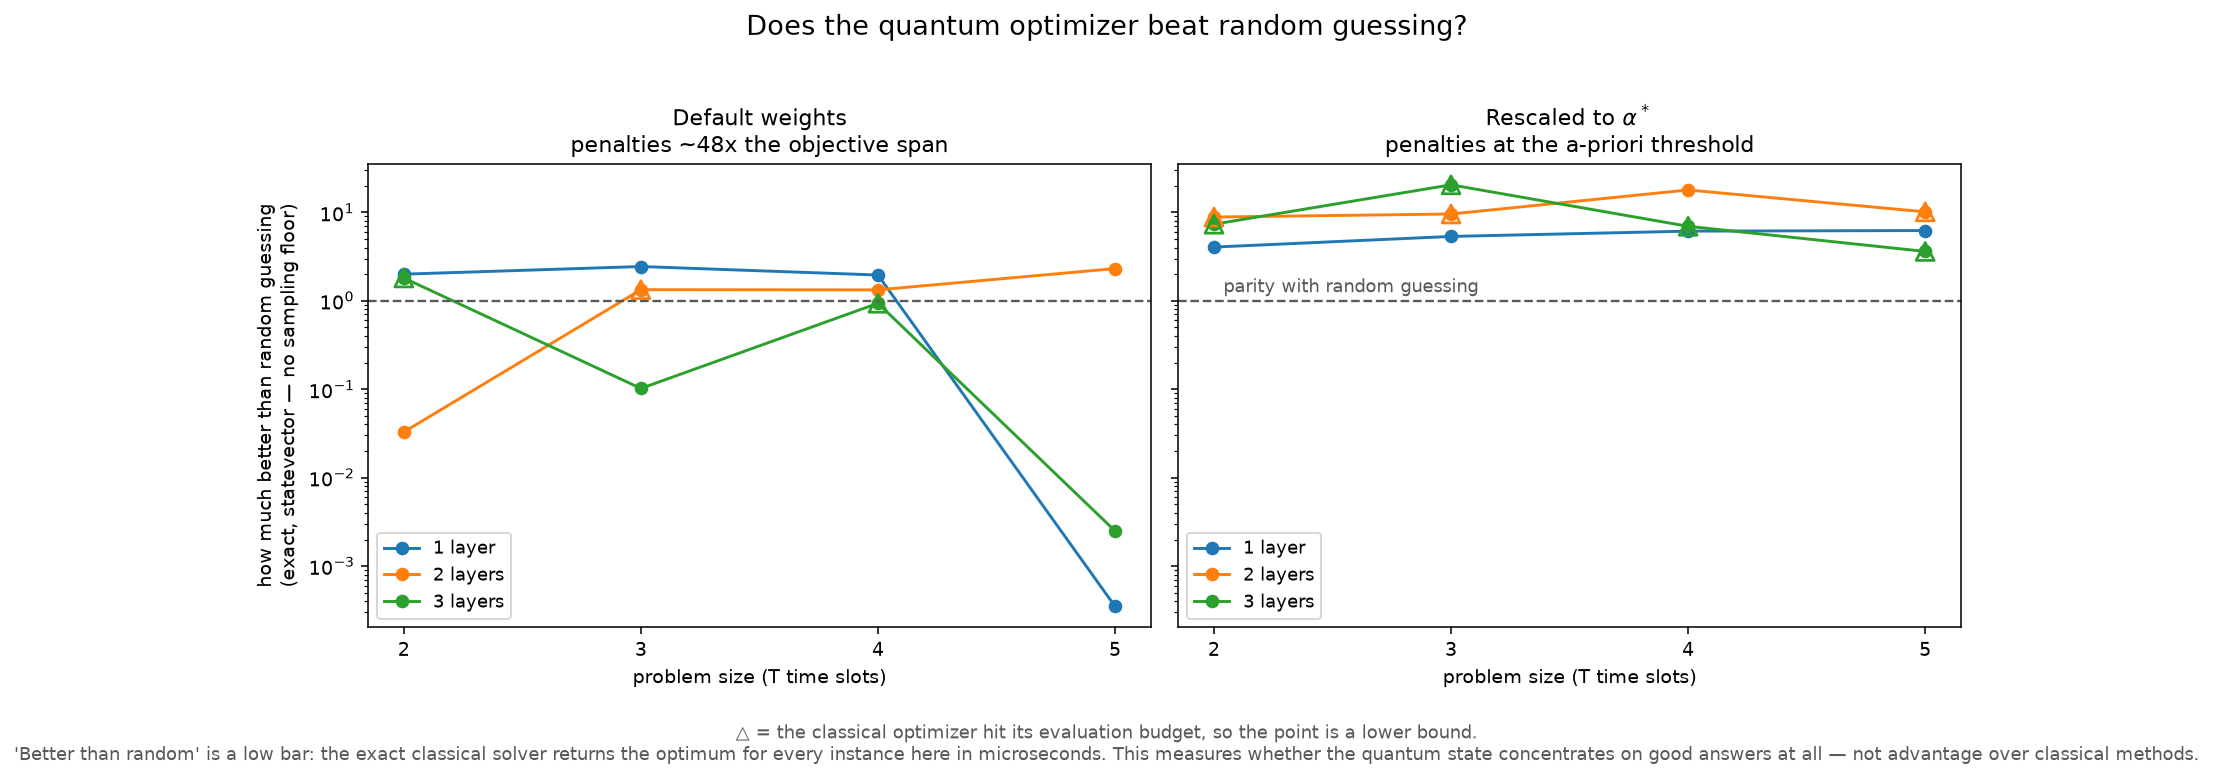
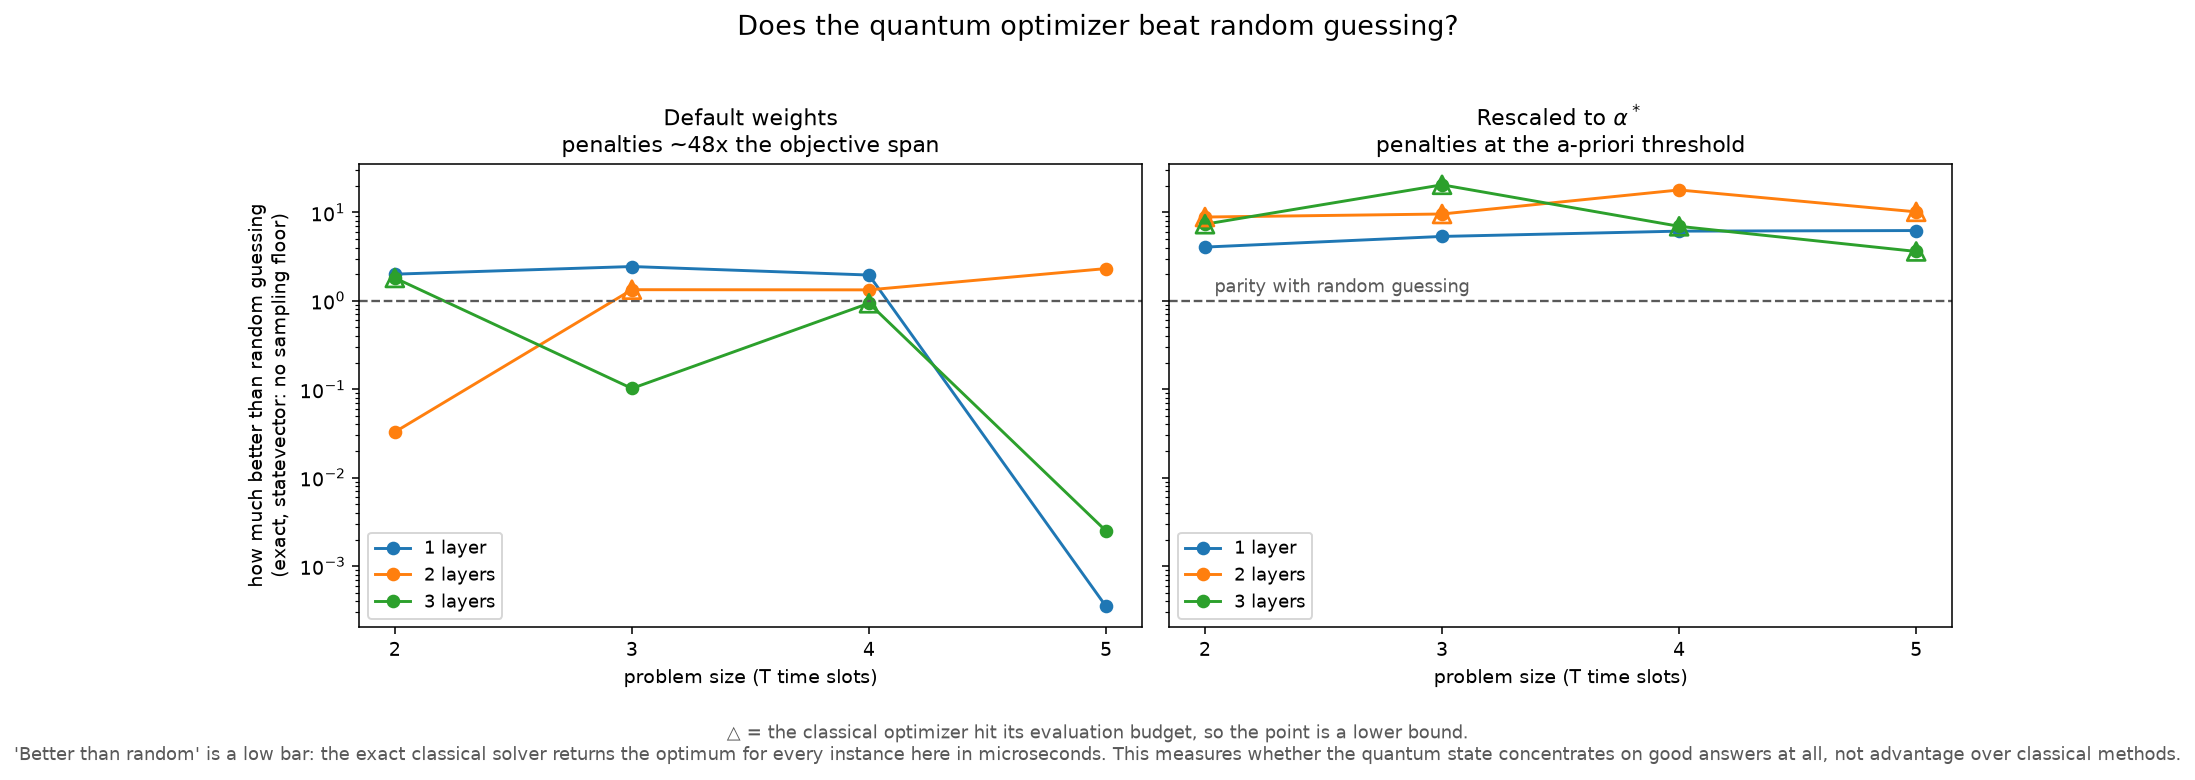
No em-dashes in anything a figure draws
Figures leave this repository on their own, so what appears on the canvas is held
to its own rules. Em-dashes are now out of every rendered title, axis label,
annotation and caption; a colon, comma, semicolon or second sentence takes their
place. En-dashes are untouched, being the right character for a range.

Five web figures swept and regenerated: penalty_weight, gates_vs_qubits, encoding,
mass_ratio_exact and metric_floor. Every number is unchanged and every gate still
passes -- the gates_vs_qubits degradation values still reproduce from the committed
device counts, the encoding qubit totals still match the study, and the
penalty-weight masses still match the sweep. The schedule_real_day set had none and
is byte-identical.

tests/test_figure_conventions.py enforces this by parsing every script that calls
savefig, rather than leaving it to be remembered. Two exemptions make it accurate
rather than merely strict: docstrings, which only a maintainer reads, and print
arguments, which are console output. The first version had neither and flagged
annual_savings.py's three console warnings, none of which is ever drawn -- a check
that cries wolf is a check someone switches off.

One deliberate gap. experiment_scaling.py had a real em-dash in an ax.text and the
source is fixed, but its committed figures still carry the old text: regenerating
them means re-running a multi-hour sweep that would also rewrite the committed
[…]

diff --git a/tests/test_figure_conventions.py b/tests/test_figure_conventions.py
@@ -1,0 +1,82 @@
+"""Conventions that every generated figure has to honour.
+
+Figures leave this repository on their own -- pasted into a write-up, attached to
+something, read by people who never see the surrounding text. So the rules about
+what may appear *on the canvas* are worth enforcing rather than remembering.
+
+Scope is deliberately narrow: only scripts that actually call ``savefig``, and only
+string literals that are not docstrings. A docstring explains the figure to whoever
+maintains it and never reaches the image, so it is left alone.
+"""
+
+from __future__ import annotations
+
+import ast
+from pathlib import Path
+
+import pytest
+
+SCRIPTS = Path(__file__).resolve().parent.parent / "scripts"
+
+EM_DASH = "—"
+#: En-dash is fine and is the correct character for ranges (5-9pm, T=2-5), which
+#: is why this checks for the em-dash specifically rather than "any long dash".
+EN_DASH = "–"
+
+
+def figure_scripts() -> list[Path]:
+    """Scripts that render an image, i.e. the ones these rules apply to."""
+    return sorted(p for p in SCRIPTS.glob("*.py") if "savefig" in p.read_text())
+
+
+def _string_constants(node):
+    for sub in ast.walk(node):
+        if isinstance(sub, ast.Constant) and isinstance(sub.value, str):
+            yield sub
+
+
+def renderable_strings(path: Path):
+    """String literals that can reach the canvas.
+
+    Excludes docstrings, which only the maintainer reads, and anything passed to
+    ``print``, which is console output and is held to no such rule. Being precise
+    matters: a blunter check flags ``annual_savings.py``'s console warnings, and a
+    convention that cries wolf gets switched off.
+    """
+    tree = ast.parse(path.read_text())
+
+    exempt = set()
+    for node in ast.walk(tree):
+        if isinstance(node, (ast.Module, ast.FunctionDef, ast.AsyncFunctionDef,
+                             ast.ClassDef)):
+            doc = ast.get_docstring(node, clean=False)
+            if doc is not None:
+                exempt.add(id(node.body[0].value))
+        if (isinstance(node, ast.Call) and isinstance(node.func, ast.Name)
+                and node.func.id == "print"):
+            exempt.update(id(s) for s in _string_constants(node))
+
+    for node in _string_constants(tree):
+        if id(node) not in exempt:
+            yield node.lineno, node.value
+
+
+def test_there_are_figure_scripts_to_check():
+    """Guard the guard: a glob that silently matches nothing would pass forever."""
+    found = figure_scripts()
+    assert len(found) >= 5, f"expected the figure generators, found {found}"
+
+
+@pytest.mark.parametrize("script", figure_scripts(), ids=lambda p: p.name)
+def test_no_em_dash_reaches_the_canvas(script):
+    """No em-dash in any text that gets drawn.
+
+    Use a colon, a comma, a semicolon, or a second sentence instead. En-dashes are
+    untouched by this rule: they are the right character for a range.
+    """
+    offenders = [(line, text) for line, text in renderable_strings(script)
+                 if EM_DASH in text]
+    assert not offenders, "\n".join(
+        f"{script.name}:{line} contains an em-dash: {text[:80]!r}"
+        for line, text in offenders
+    )

diff --git a/scripts/make_gates_vs_qubits_figure.py b/scripts/make_gates_vs_qubits_figure.py
@@ -137,7 +137,7 @@ def main() -> None:
                       ha="center", fontsize=10, color=INK)
     ax_g.set_xlabel("two-qubit gates in the circuit that actually ran")
     ax_g.set_xlim(0, 330)
-    ax_g.set_title("Against gate count — it tracks, across a 7.8× range",
+    ax_g.set_title("Against gate count: it tracks, across a 7.8× range",
                    fontsize=12.5)
     ax_g.text(
         18, 0.605,
@@ -163,14 +163,14 @@ def main() -> None:
     # Room to the right for the explanation, and the emptiness is itself the
     # message rather than wasted space.
     ax_q.set_xlim(4.4, 14.0)
-    ax_q.set_title("Against qubit count — it cannot tell them apart",
+    ax_q.set_title("Against qubit count: it cannot tell them apart",
                    fontsize=12.5)
     # Say what the emptiness means, so the panel reads as the argument rather
     # than as a chart that failed to render.
     ax_q.text(
         11.4, 0.335,
         "Only two values on this axis.\n"
-        f"The two 6-qubit circuits differ by {spread:.0f}% —\n"
+        f"The two 6-qubit circuits differ by {spread:.0f}%,\n"
         "as much as the entire range on the left.\n"
         "Qubit count cannot explain the damage;\n"
         "the sparseness here is the finding.",
@@ -198,8 +198,9 @@ def main() -> None:
         0.5, 0.105,
         "What it changed: the 6-slot problem we were building toward needs ~348 gates "
         "even with the encoding we designed to save qubits,\ncompiled the same way as "
-        "the circuits above — more than the worst of them, which returned no usable "
-        "signal. No encoding makes it\nsubmittable. We had spent a phase on the wrong axis.",
+        "the circuits above. That is more than the worst of them, which returned no "
+        "usable signal.\nNo encoding makes it submittable. We had spent a phase on the "
+        "wrong axis.",
         ha="center", va="center", fontsize=10.5, color=INK,
         bbox=dict(boxstyle="round,pad=0.6", facecolor="#EEF2F8", edgecolor="#C6D3E4"),
     )

diff --git a/scripts/make_encoding_figure.py b/scripts/make_encoding_figure.py
@@ -210,7 +210,7 @@ def main() -> None:
 
     draw_schedule(
         ax_exact, problem, trajectory(problem, exact_solution),
-        title=f"Exact — a slack register at every interior hour"
+        title=f"Exact: a slack register at every interior hour"
               f"\n{totals['exact']} qubits",
         marks=exact_slots, mark_label=f"{len(exact_slots)} interior hours",
         band=(0.0, problem.capacity), bits_each=exact_bits_each,
@@ -219,12 +219,12 @@ def main() -> None:
 
     draw_schedule(
         ax_cp, problem, trajectory(problem, cp_solution),
-        title=f"Checkpoint({SPACING}, banded) — pinned every {SPACING}th hour"
+        title=f"Checkpoint({SPACING}, banded): pinned every {SPACING}th hour"
               f"\n{totals['cp5band']} qubits, and the same ${cp_solution.true_energy:.2f} bill",
         marks=cp_slots, mark_label=f"every {SPACING}th hour",
         band=(half * e, problem.capacity - half * e), bits_each=cp_bits_each,
         band_note=f"pinned inside the tightened band [{half * e:g}, "
-                  f"{problem.capacity - half * e:g}] kWh — and free in between",
+                  f"{problem.capacity - half * e:g}] kWh, and free in between",
     )
 
     # --- soundness: the excursion envelope between two pinned slots ------------
@@ -253,7 +253,7 @@ def main() -> None:
                   ha="center", va="bottom", fontsize=9.5, color=AUX)
     ax_sound.text(SPACING / 2, -headroom - 0.62,
                   f"sound iff ⌊k/2⌋ ≤ min(k₀, n_max−k₀):  {half} ≤ {headroom} ✓"
-                  f"   (k={SPACING} is the ceiling — no margin)",
+                  f"   (k={SPACING} is the ceiling, no margin)",
                   ha="center", va="top", fontsize=9.5, color=AUX, weight="bold")
 
     # --- the accounting -------------------------------------------------------

diff --git a/scripts/make_metric_floor_figure.py b/scripts/make_metric_floor_figure.py
@@ -55,7 +55,7 @@ def main() -> None:
         ax0.fill_between(Ts, lo[rp], hi[rp], alpha=0.15, color=line.get_color())
     ax0.set_ylim(-0.02, 1.02)
     ax0.set_ylabel(f"prob. mass on optimal bitstrings ({shots} shots)")
-    ax0.set_title("What we plotted\nsampled — reads exactly 0 in "
+    ax0.set_title("What we plotted\nsampled: reads exactly 0 in "
                   f"{n_zero} of {len(rows)} cells", fontsize=11)
     ax0.annotate("the 'trend' is the metric\nhitting its floor",
                  xy=(Ts[-1], 0.0), xytext=(Ts[1] + 0.35, 0.34),
@@ -72,7 +72,7 @@ def main() -> None:
     ax1.axhline(1.0 / shots, color="crimson", ls=":", lw=1.3)
     # Label goes in the empty bottom-left, not against the line: at the line the
     # text lands on top of the reps=1/reps=2 curves and is unreadable.
-    ax1.annotate(f"1/{shots} shot floor —\neverything below reads 0 on the left",
+    ax1.annotate(f"1/{shots} shot floor:\neverything below reads 0 on the left",
                  xy=(Ts[0] + 0.06, 1.0 / shots), xytext=(Ts[0] + 0.06, 3e-11),
                  arrowprops=dict(arrowstyle="->", color="crimson", lw=1.2),
                  color="crimson", fontsize=9.5, va="bottom", ha="left")
@@ -88,7 +88,7 @@ def main() -> None:
     fig.suptitle("The same 36 runs, measured two ways", fontsize=13.5, y=0.99)
     fig.tight_layout(rect=(0, 0.035, 1, 0.98))
     fig.text(0.5, 0.005,
-             "Identical data, seeds and problem sizes — the only difference is "
+             "Identical data, seeds and problem sizes; the only difference is "
              "sampling the simulator vs. reading the exact probability off it. "
              "Cost: one extra computation.",
              ha="center", fontsize=9, color="0.35")

diff --git a/scripts/make_mass_ratio_exact_figure.py b/scripts/make_mass_ratio_exact_figure.py
@@ -127,7 +127,7 @@ def main() -> None:
         ax.legend(fontsize=9, loc="lower left")
 
     axes[0].set_ylabel("how much better than random guessing\n(exact, "
-                       "statevector — no sampling floor)")
+                       "statevector: no sampling floor)")
     # Label the parity line in the right panel: the band just above it is empty
     # there, whereas in the left panel it lands on top of the T=2 points.
     axes[1].text(2.04, 1.12, "parity with random guessing", color="0.35",
@@ -141,7 +141,7 @@ def main() -> None:
             "'Better than random' is a low bar: the exact classical solver "
             "returns the optimum for every instance here in microseconds. "
             "This measures whether the quantum state concentrates on good "
-            "answers at all — not advantage over classical methods.")
+            "answers at all, not advantage over classical methods.")
     fig.text(0.5, 0.008, note, ha="center", fontsize=9, color="0.35")
     OUT.parent.mkdir(parents=True, exist_ok=True)
     fig.savefig(OUT, dpi=140, bbox_inches="tight")

diff --git a/scripts/make_penalty_weight_figure.py b/scripts/make_penalty_weight_figure.py
@@ -280,10 +280,10 @@ def main() -> None:
 
     note = (
         f"Battery scheduling over {T} time slots, encoded as a QUBO on {m} qubits and "
-        f"solved with {REPS}-layer QAOA. Exact statevector probabilities — no shot noise, "
+        f"solved with {REPS}-layer QAOA. Exact statevector probabilities: no shot noise, "
         f"no sampling floor. The panels share every input except the penalty scale.\n"
         f"Bars sum probability over the encoding's internal slack bits. Requiring those "
-        f"to be set consistently too — the metric reported elsewhere in this repo — the "
+        f"to be set consistently too (the metric reported elsewhere in this repo), the "
         f"same comparison is {arms[0][3]:.4f} → {arms[1][3]:.4f}, a factor of "
         f"{arms[1][3] / arms[0][3]:.0f}.\n"
         f"Not a claim of quantum advantage: the exact classical solver returns this "

diff --git a/scripts/experiment_scaling.py b/scripts/experiment_scaling.py
@@ -460,7 +460,7 @@ def plot_optimal_mass(rows):
         ax.set_ylabel("prob. mass on optimal bitstrings (exact, statevector)")
         floor = 1.0 / rows[0]["shots"]
         ax.axhline(floor, color="crimson", ls=":", lw=1.2)
-        ax.text(Ts[0], floor * 1.15, f"1/{rows[0]['shots']} shots — sampling would "
+        ax.text(Ts[0], floor * 1.15, f"1/{rows[0]['shots']} shots: sampling would "
                 "read 0 below here", color="crimson", va="bottom", fontsize=8)
     else:
         ax.set_ylim(-0.02, 1.02)

diff --git a/docs/ARCHITECTURE.md b/docs/ARCHITECTURE.md
@@ -342,6 +342,13 @@ do:
   **lazily** so stages (a)/(c) and the tests run without it installed. Hardware
   auth is a saved account (`~/.qiskit`) via a bare `QiskitRuntimeService()` — no
   legacy `channel="ibm_quantum"` (sunset in the 2025 migration).
+- **No em-dashes in anything a figure draws.** Titles, axis labels, annotations,
+  captions: use a colon, a comma, a semicolon, or a second sentence. En-dashes are
+  fine and are the right character for a range (`5–9pm`, `T=2–5`); the rule is
+  about the em-dash specifically. Docstrings and `print` output are exempt, since
+  neither reaches the canvas. Enforced by `tests/test_figure_conventions.py`, which
+  parses every script that calls `savefig` rather than relying on anyone
+  remembering.
 - Commits carry no attribution or co-author trailers. Keep it that way.
 - Editor and local tooling configuration stays out of the repository; add it to
   `.gitignore` rather than committing machine-local settings.
